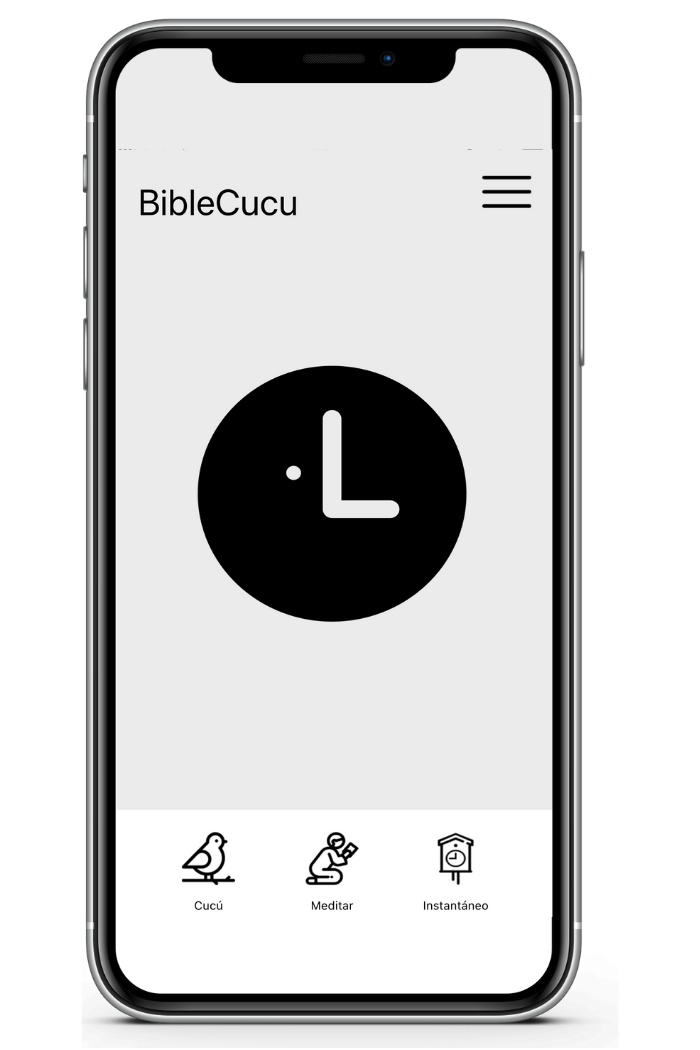
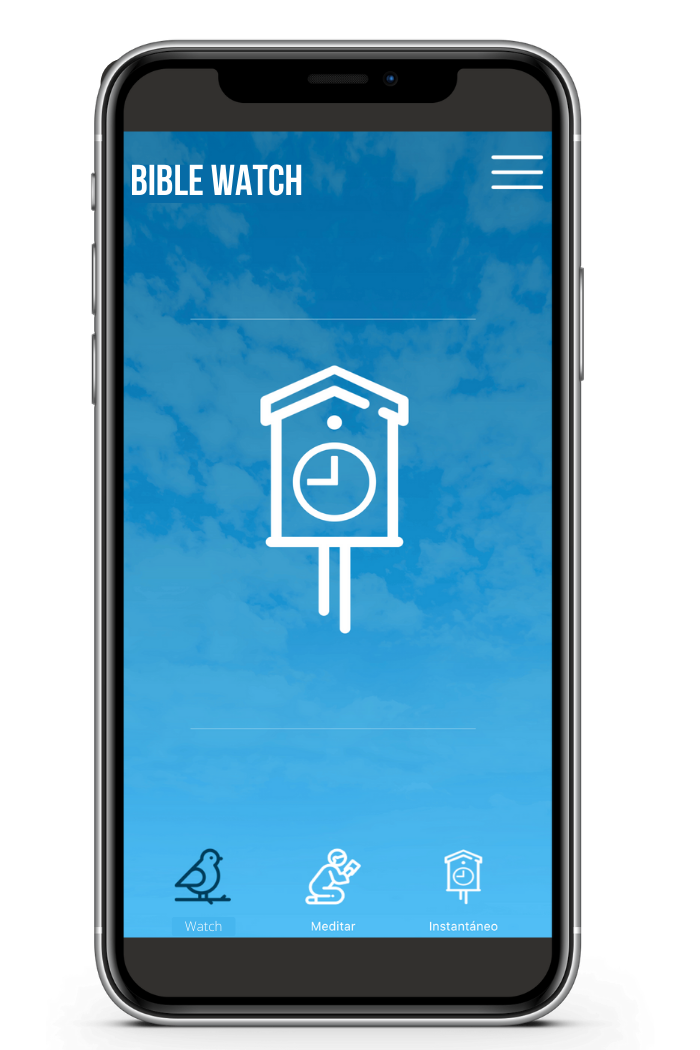
Subiendo cambios web

diff --git a/index.html b/index.html
@@ -75,8 +75,8 @@
                 <div class="row align-items-center">
                     <div class="col-xl-7 col-md-6">
                         <div class="slider_text ">
-                            <h3 class="wow fadeInDown" data-wow-duration="1s" data-wow-delay=".1s" >BIBLEWATCH</h3>
-                            <p class="wow fadeInLeft" data-wow-duration="1s" data-wow-delay=".1s">BibleWatch es un emprendimiento cristiano que busca llegar con la Palabra de Dios a tus oídos durante todo el día</p>
+                            <h3 class="wow fadeInDown" data-wow-duration="1s" data-wow-delay=".1s" >BIBLE WATCH</h3>
+                            <p class="wow fadeInLeft" data-wow-duration="1s" data-wow-delay=".1s">Un reloj digital que día a día te acompaña en tu crecimiento cristiano</p>
                             <div class="video_service_btn wow fadeInLeft" data-wow-duration="1s" data-wow-delay=".1s">
                                 <div class="app_download wow fadeInDown" data-wow-duration="1s" data-wow-delay=".1s">
                                     <a href="https://apps.apple.com/cl/app/biblecucu/id1458487312" >
@@ -121,17 +121,16 @@
                 <div class="col-lg-6 col-md-6">
                     <div class="texto-visualizacion wow fadeInLeft" data-wow-duration=".4s" data-wow-delay=".5s">
                         <h3>BIBLE WATCH</h3>
-                        <p class="subtitulo-visualizacion">UN RELOJ DIGITAL QUE DÍA A DÍA TE ACOMPAÑA EN TU CRECIMIENTO CRISTIANO</p>
                         <div class="linea-separacion"></div>
                         <p>Porciones de la biblia entregadas aleatoriamente con intervalos de tiempos según tu preferencia.</p>
                     </div>
                 </div>
                 <div class="col-lg-6 col-md-6">
-                    <div>
+                    <!--<div>
                         <div class="mobile_screen wow fadeInRight" data-wow-duration=".8s" data-wow-delay=".5s">
                             <img src="img/img-visualizacion2.png" alt="Imágenes de visualización aplicación" class="img-telefono-visualizacion">
                         </div>
-                    </div>
+                    </div>-->
                 </div>
             </div>
         </div>
@@ -139,20 +138,50 @@
     <!--/ Visualizaciones  -->
 
     <!-- Opciones  -->
-    <div class="container container-opciones">
-        <h3>PUEDES SELECCIONAR</h3>
-        <div class="row">
-            <div class="col-lg-3 col-md-3">
-                <img class="img-opciones" alt="Más de 1400 pasajes bíblicos" src="img/lista-opciones/1.png">
+    <div class="service_area">
+        <div class="container">
+            <div class="row">
+                <div class="col-xl-12">
+                    <div class="section_title text-center  wow fadeInUp" data-wow-duration=".5s" data-wow-delay=".3s">
+                        <h3>PUEDES SELECCIONAR</h3>
+                    </div>
+                </div>
             </div>
-            <div class="col-lg-3 col-md-3">
-                <img class="img-opciones" alt="24 horas al día" src="img/lista-opciones/2.png">     
-            </div>
-            <div class="col-lg-3 col-md-3">
-                <img class="img-opciones" alt="Diferentes versiones de la Biblia" src="img/lista-opciones/3.png">
-            </div>
-            <div class="col-lg-3 col-md-3">
-                <img class="img-opciones" alt="Idioma Español/Inglés" src="img/lista-opciones/4.png">
+            <div class="row">
+                <div class="col-lg-3 col-md-3">
+                    <div class="single_service text-center wow fadeInUp" data-wow-duration=".6s" data-wow-delay=".4s">
+                        <div class="thumb">
+                            <i class="far fa-file-alt"></i>
+                        </div>
+                        <h3>+1400 pasajes bíblicos</h3>
+                    </div>
+                </div>
+                <div class="col-lg-3 col-md-3">
+                        <div class="single_service text-center wow fadeInUp" data-wow-duration=".7s" data-wow-delay=".5s">
+                                <div class="thumb">
+                                    <i class="far fa-clock"></i>
+                                </div>
+                                <h3>24 horas al día</h3>
+                            </div>
+                </div>
+                <div class="col-lg-3 col-md-3">
+
+                            <div class="single_service text-center wow fadeInUp " data-wow-duration=".8s" data-wow-delay=".6s">
+                                <div class="thumb">
+                                        <img src="img/icon/3.svg" alt="">
+                                </div>
+                                <h3>diferentes versiones<br>NVI / RV / DHH</h3>
+                            </div>
+                </div>
+                <div class="col-lg-3 col-md-3">
+
+                    <div class="single_service text-center wow fadeInUp " data-wow-duration=".8s" data-wow-delay=".6s">
+                        <div class="thumb">
+                            <i class="fas fa-language"></i>
+                        </div>
+                        <h3>distintos idiomas</h3>
+                    </div>
+        </div>
             </div>
         </div>
     </div>
@@ -195,7 +224,7 @@
                     <div class="row  align-items-center">
                             <div class="col-xl-5 col-lg-5 offset-xl-1 offset-lg-1 col-md-6">
                                 <div class="about_image wow fadeInLeft" data-wow-duration=".4s" data-wow-delay=".3s">
-                                    <img class="img-tres" src="img/telefono3.png" alt="Tres modalidades: watch - meditación - instantáneo">
+                                    <img class="img-tres" src="img/telefono5.png" alt="Tres modalidades: watch - meditación - instantáneo">
                                 </div>
                             </div>
                             <div class="col-xl-6 col-lg-6 col-md-6">

diff --git a/css/style.css b/css/style.css
@@ -692,8 +692,10 @@ h3 {
 }
 
 .seccion-visualizacion{
-  background-color: #DDE6EE;
-  padding: 0 0 6%;
+  background-image: url(../img/fondo-bg.png);
+  background-size: cover;
+  background-position: center;
+  padding: 0 0 19%;
 }
 
 .subtitulo-visualizacion{
@@ -3535,12 +3537,12 @@ h3 {
 /* line 14, ../../Arafath/CL/CL October/214. App Landing Page/HTML/scss/_service.scss */
 .service_area .single_service .thumb {
   /* Permalink - use to edit and share this gradient: https://colorzilla.com/gradient-editor/#0181f5+0,5db2ff+100 */
-  background: #0181f5;
-  /* Old browsers */
+  background: #15B4F5;
+  /* Old browsers 
   background: -moz-linear-gradient(left, #0181f5 0%, #5db2ff 100%);
-  /* FF3.6-15 */
+  /* FF3.6-15 
   background: -webkit-linear-gradient(left, #0181f5 0%, #5db2ff 100%);
-  /* Chrome10-25,Safari5.1-6 */
+  /* Chrome10-25,Safari5.1-6 
   background: linear-gradient(to right, #0181f5 0%, #5db2ff 100%);
   /* W3C, IE10+, FF16+, Chrome26+, Opera12+, Safari7+ */
   filter: progid:DXImageTransform.Microsoft.gradient( startColorstr='#0181f5', endColorstr='#5db2ff',GradientType=1 );
